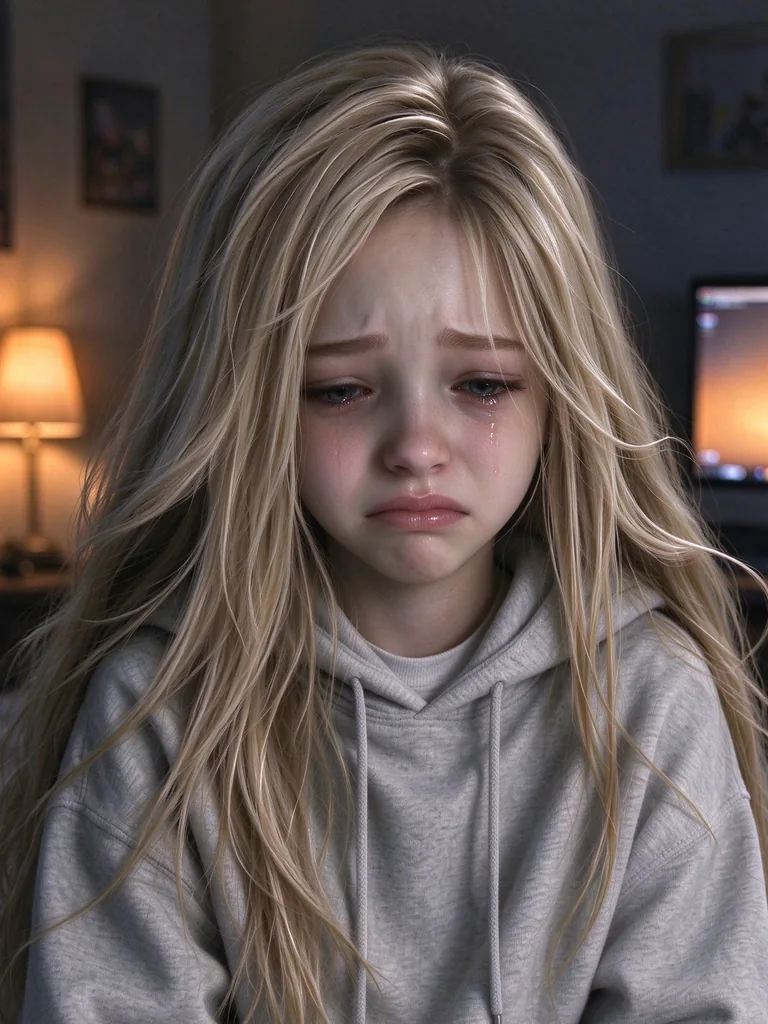
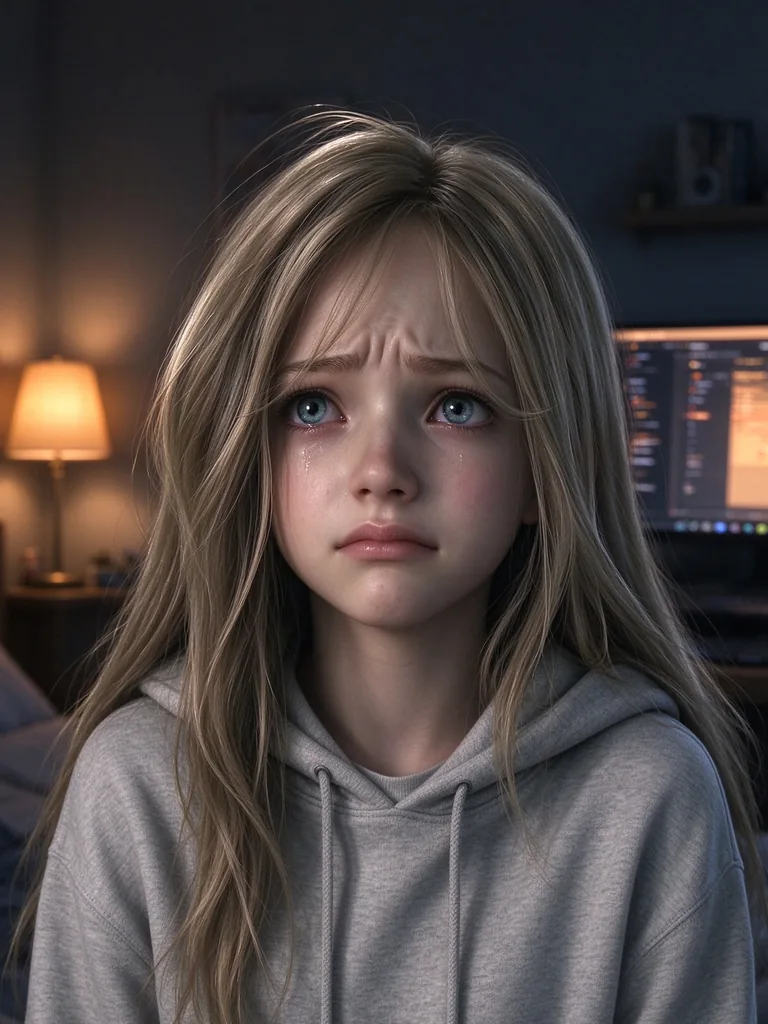
feat: anxious 换成发愁脸，7 个表情成套；记录不改傲娇标签的判断
为什么：原 anxious 是哭脸，和 sad 撞车，而演示场景二就是焦虑；新上传那张眼神飘、嘴角垂、没眼泪，正是「越想越睡不着」。
另外 A 想加傲娇表情，但情绪标签是冻结的、傲娇是角色态度不是用户情绪、撇嘴那张脸已经在 angry 槽里，故不改，理由写进评审记录。
影响：assets/images/expr_anxious.webp 重新导出（88KB→77KB）；docs/形象评审_第一版.md 新增第六节；assets/prompts/形象生成提示词.md 补「导出立刻改名」一条（豆包文件名重名会覆盖）。未动代码与接口契约。

diff --git a/assets/prompts/形象生成提示词.md b/assets/prompts/形象生成提示词.md
@@ -55,6 +55,9 @@ no text, no watermark, no logo, no signature,
    否则切表情时人物忽大忽小。
 3. **负面词必须带**：`no text, no watermark, no logo, no signature`。
    第一版有 3 张带「豆包 AI 生成」水印或 `PRAGMATA / DIANA` 字样，现场大屏一放大就看得见。
+   现在统一在入图时裁掉底部 9%（`prep-images.cmd --trim-bottom 0.09`），不用指望生图工具听话。
+4. **导出后立刻改名**。豆包导出的文件名会重名（连着两次导出都叫「变清晰 (16)」），
+   后下载的直接把前一张覆盖掉 —— 已经发生过一次。下载完马上改成 `neutral.png` / `sad.png` 这种表情名。
 
 ## 4. 一次生成一张，生成即检查
 
